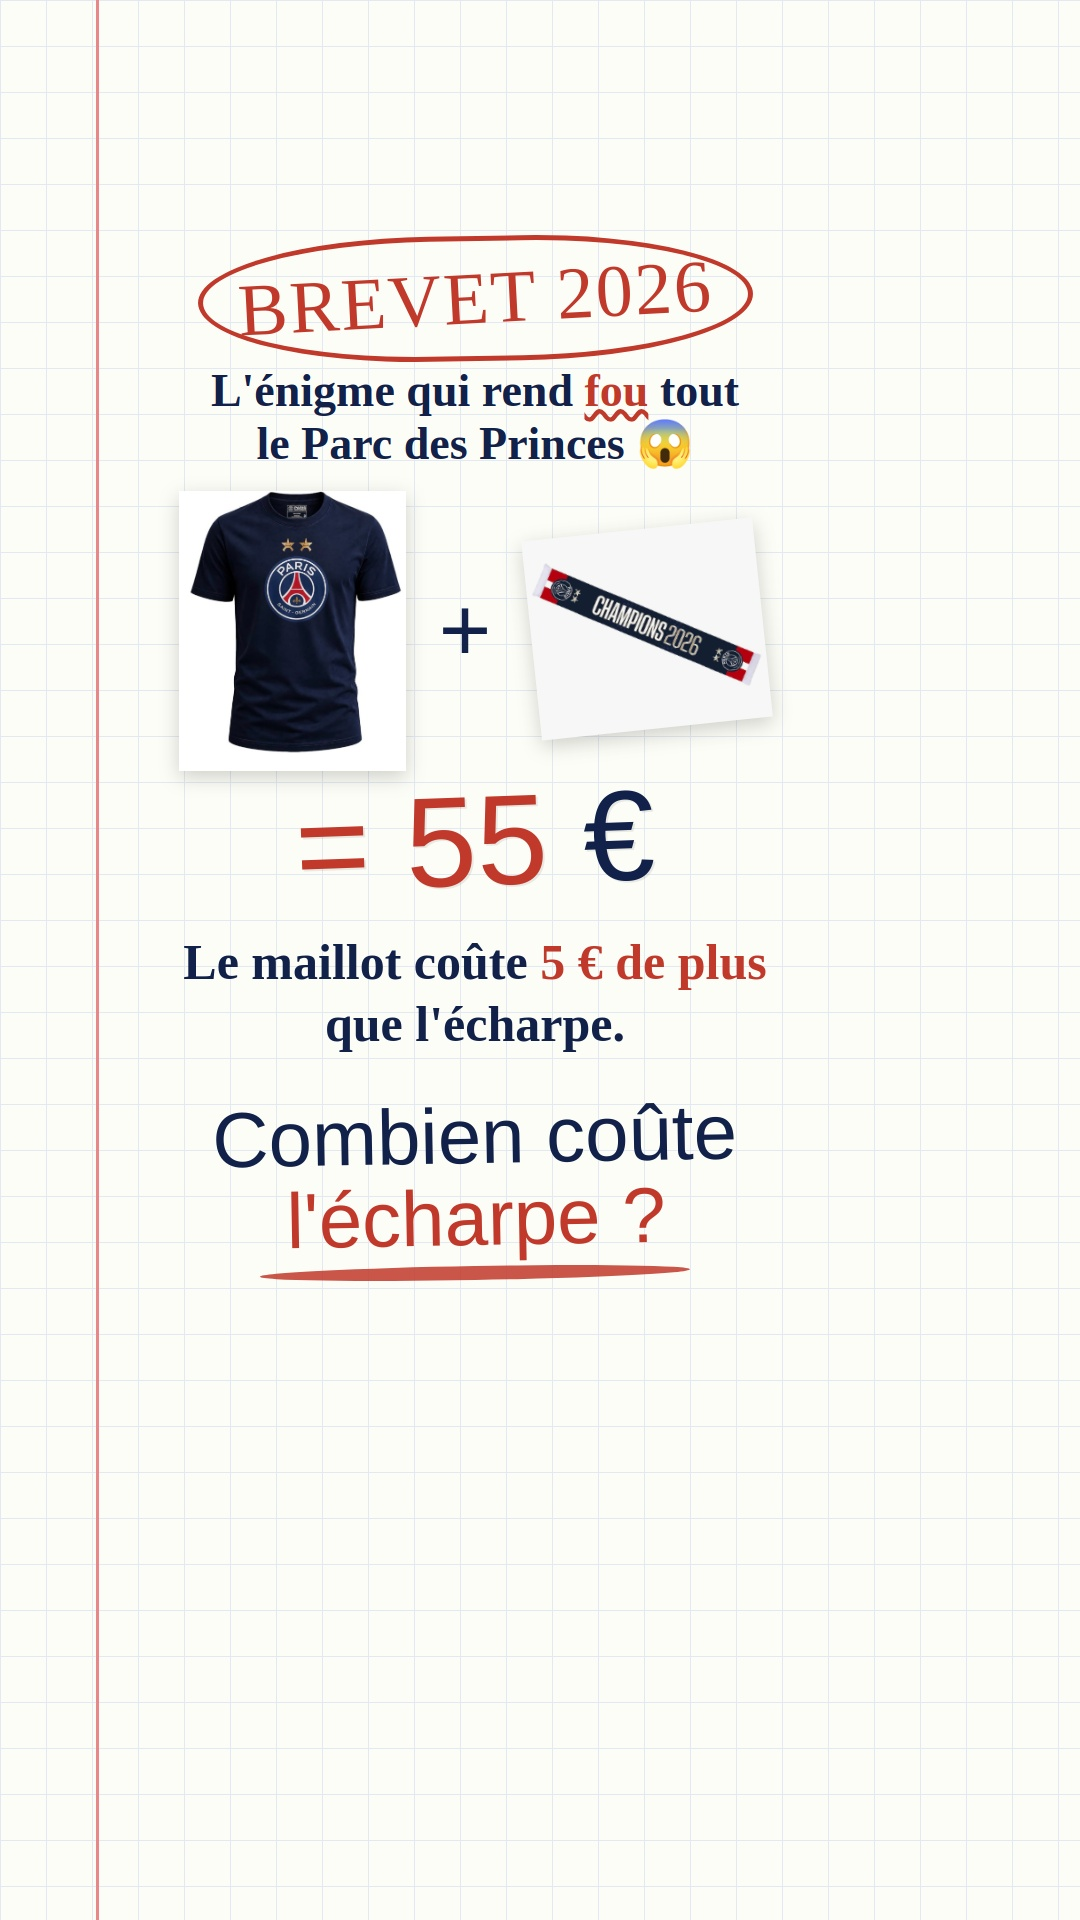
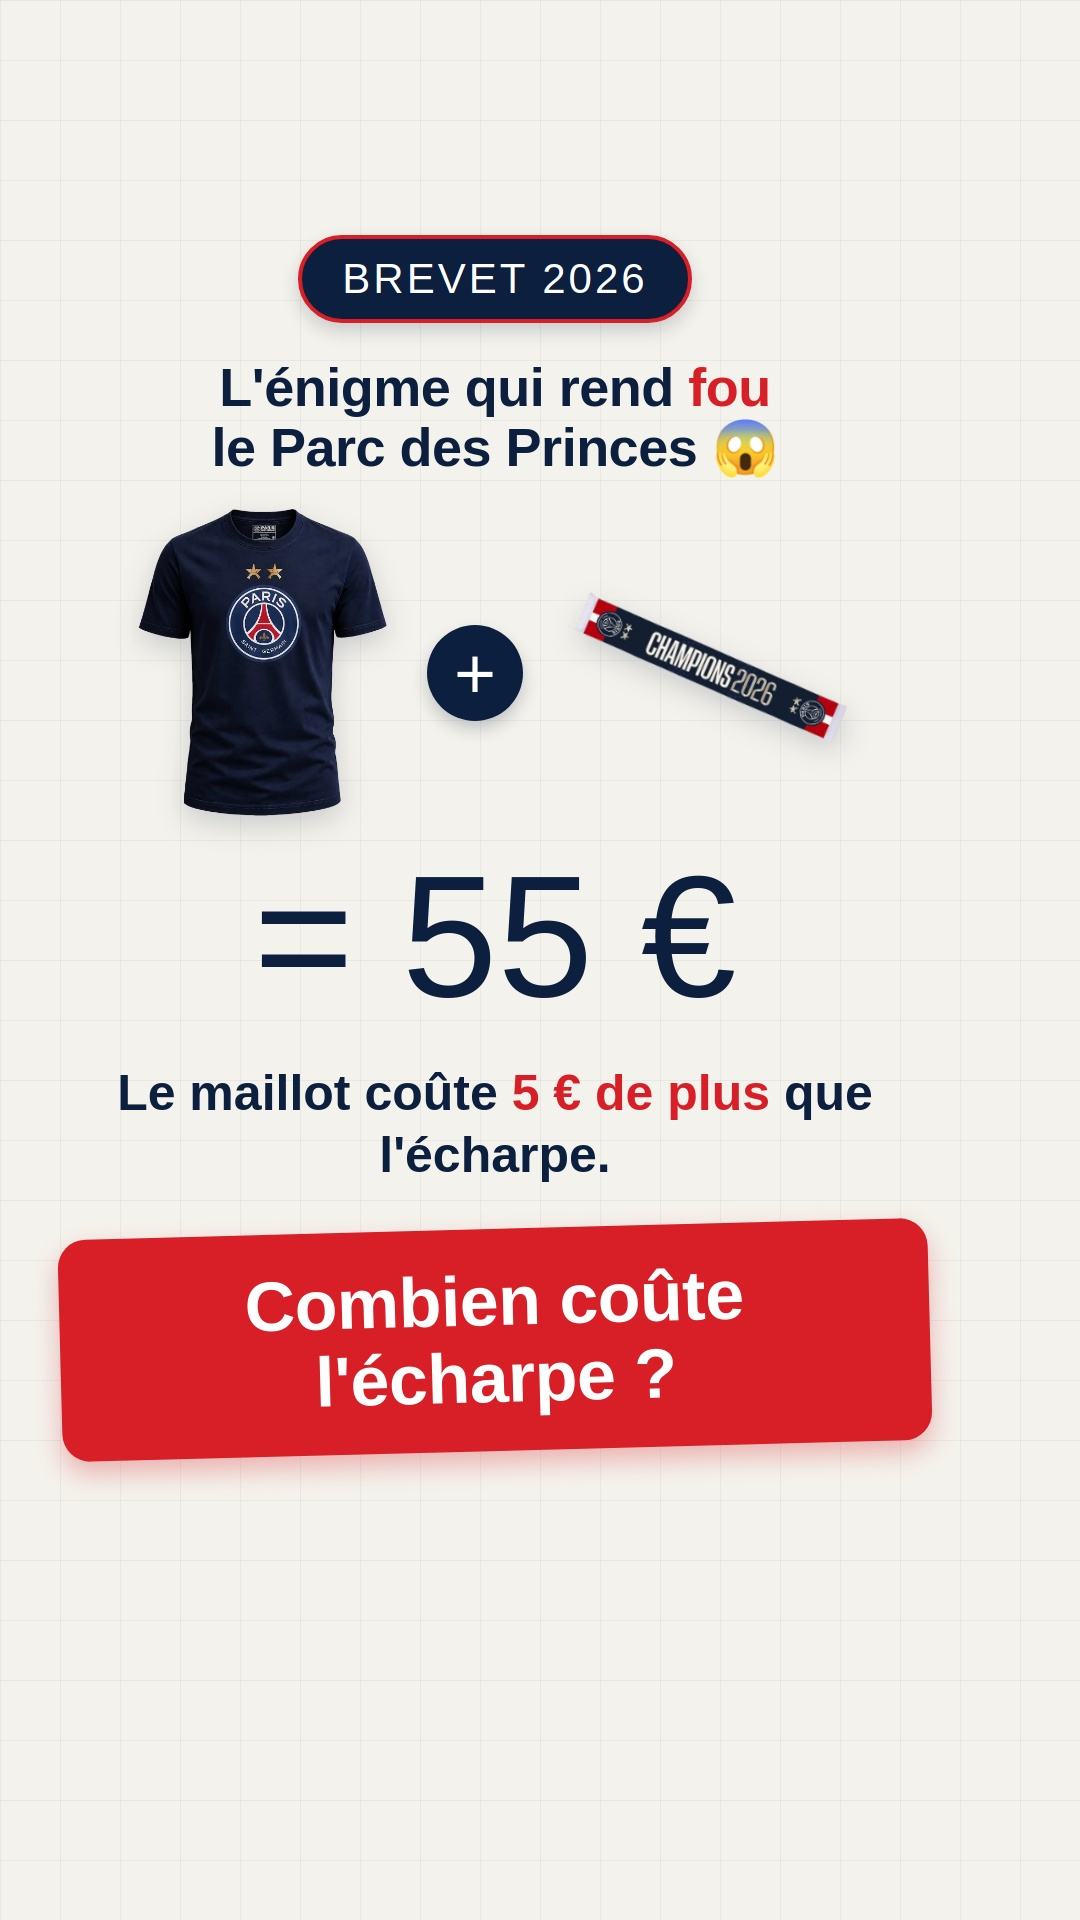
Redesign riddle: clean bg, detoured products, modern type, red closer block

Changed region(s): [[0.0306, 0.0938, 0.8861, 0.7812], [0.4889, 0.2812, 0.7944, 0.4062]]

diff --git a/enigme/enigme.html b/enigme/enigme.html
@@ -4,140 +4,123 @@
 <meta charset="utf-8">
 <link rel="preconnect" href="https://fonts.googleapis.com">
 <link rel="preconnect" href="https://fonts.gstatic.com" crossorigin>
-<link href="https://fonts.googleapis.com/css2?family=Permanent+Marker&family=Kalam:wght@400;700&family=Anton&display=swap" rel="stylesheet">
+<link href="https://fonts.googleapis.com/css2?family=Anton&family=Montserrat:wght@600;700;800;900&display=swap" rel="stylesheet">
 <style>
-  * { margin:0; padding:0; box-sizing:border-box; }
+  :root{
+    --bg:#F4F2EC;        /* blanc cassé mat */
+    --navy:#0C1F3F;      /* bleu marine */
+    --red:#D81E27;       /* rouge PSG */
+    --grid:rgba(12,31,63,.05);
+  }
+  *{ margin:0; padding:0; box-sizing:border-box; }
 
   /* Canvas 9:16 — 1080 x 1920 */
   .canvas{
     position:relative;
     width:1080px; height:1920px;
     overflow:hidden;
-    /* feuille à carreaux (cahier) */
-    background-color:#fdfdf7;
+    background-color:var(--bg);
+    /* quadrillage très atténué, sans marge */
     background-image:
-      linear-gradient(#e3e9f2 1px, transparent 1px),
-      linear-gradient(90deg, #e3e9f2 1px, transparent 1px);
-    background-size:46px 46px;
-    font-family:'Kalam', cursive;
-  }
-  /* marge rouge du cahier */
-  .canvas::before{
-    content:"";
-    position:absolute; top:0; bottom:0; left:96px;
-    width:3px; background:#e8868a;
+      linear-gradient(var(--grid) 1px, transparent 1px),
+      linear-gradient(90deg, var(--grid) 1px, transparent 1px);
+    background-size:60px 60px;
+    font-family:'Montserrat', sans-serif;
+    color:var(--navy);
   }
 
-  /* ---- TikTok SAFE ZONE ----
-     haut ~250px / bas ~520px / droite ~200px (icônes) / gauche ~70px */
+  /* ---- TikTok SAFE ZONE : haut ~230 / bas ~520 / droite ~150 ---- */
   .safe{
     position:absolute;
-    top:250px; left:70px; right:200px; bottom:520px;
-    display:flex; flex-direction:column;
-    align-items:center;
+    top:235px; left:60px; right:150px;
+    display:flex; flex-direction:column; align-items:center;
     text-align:center;
   }
 
-  /* Bandeau titre entouré au feutre */
+  /* 1. Macaron BREVET 2026 */
   .badge{
-    font-family:'Permanent Marker', cursive;
-    font-size:74px; color:#c0392b;
-    letter-spacing:2px;
-    transform:rotate(-3deg);
-    position:relative;
-    padding:6px 30px;
-    margin-bottom:18px;
-  }
-  .badge::after{
-    content:""; position:absolute; inset:-14px -10px;
-    border:5px solid #c0392b; border-radius:50%/60%;
-    transform:rotate(2deg);
+    font-family:'Anton', sans-serif;
+    font-size:42px; letter-spacing:3px;
+    color:#fff; background:var(--navy);
+    padding:16px 40px; border-radius:999px;
+    border:4px solid var(--red);
+    box-shadow:0 8px 18px rgba(12,31,63,.18);
+    margin-bottom:34px;
   }
 
+  /* 2. Accroche */
   .accroche{
-    font-family:'Kalam', cursive; font-weight:700;
-    font-size:46px; color:#11214a; line-height:1.15;
-    margin-bottom:6px;
+    font-weight:900; font-size:54px; line-height:1.12;
+    letter-spacing:-.5px; max-width:820px;
+    margin-bottom:30px;
   }
-  .accroche .fou{ color:#c0392b; text-decoration:underline wavy #c0392b; }
+  .accroche .red{ color:var(--red); }
 
-  /* Ligne des deux produits */
-  .produits{
+  /* 3. Équation détourée */
+  .eq{
     display:flex; align-items:center; justify-content:center;
-    gap:6px; margin:14px 0 4px;
+    gap:18px; margin-bottom:6px; width:100%;
   }
-  .produits img{ width:280px; height:280px; object-fit:contain;
-    filter:drop-shadow(0 6px 10px rgba(0,0,0,.18)); }
-  .echarpe-wrap{ width:300px; }
-  .echarpe-wrap img{ width:300px; height:200px; transform:rotate(-6deg); }
-  .signe{ font-family:'Anton',sans-serif; font-size:90px; color:#11214a; }
+  .eq img{
+    filter:drop-shadow(0 10px 14px rgba(12,31,63,.18));  /* relief doux */
+  }
+  .maillot{ width:300px; height:330px; object-fit:contain; }
+  .echarpe{ width:340px; height:240px; object-fit:contain; transform:rotate(-5deg); }
+
+  /* pastille "+" en relief */
+  .plus{
+    flex:0 0 auto;
+    width:96px; height:96px; border-radius:50%;
+    background:var(--navy); color:#fff;
+    font-family:'Anton',sans-serif; font-size:72px; line-height:96px;
+    box-shadow:0 8px 16px rgba(12,31,63,.22);
+  }
 
   .total{
     font-family:'Anton', sans-serif;
-    font-size:128px; color:#c0392b; line-height:1;
-    transform:rotate(-2deg);
-    margin:2px 0 26px;
-    text-shadow:2px 2px 0 rgba(0,0,0,.08);
+    font-size:172px; line-height:1; color:var(--navy);
+    margin:6px 0 40px;
   }
-  .total span{ color:#11214a; }
 
-  /* Indice manuscrit */
+  /* 4. Indice */
   .indice{
-    font-family:'Kalam', cursive; font-weight:700;
-    font-size:50px; color:#11214a; line-height:1.25;
-    max-width:760px; margin-bottom:40px;
+    font-weight:800; font-size:50px; line-height:1.25;
+    max-width:780px; margin-bottom:42px;
   }
-  .indice b{ color:#c0392b; }
+  .indice .red{ color:var(--red); }
 
-  /* Calcul griffonné */
-  .calcul{
-    font-family:'Permanent Marker', cursive;
-    font-size:44px; color:#2c4a8f;
+  /* 5. Question — bloc rouge qui ferme le visuel */
+  .closer{
+    background:var(--red); color:#fff;
+    font-weight:900; font-size:70px; line-height:1.1;
+    letter-spacing:-.5px;
+    padding:34px 56px; border-radius:28px;
+    box-shadow:0 12px 26px rgba(216,30,39,.30);
     transform:rotate(-1.5deg);
-    margin:4px 0 26px;
-    opacity:.85;
   }
-
-  .question{
-    font-family:'Anton', sans-serif;
-    font-size:78px; color:#11214a; line-height:1.05;
-    transform:rotate(-1deg);
-  }
-  .question em{ color:#c0392b; font-style:normal; }
-
-  .underline{
-    width:430px; height:14px; margin-top:6px;
-    background:#c0392b;
-    border-radius:50%;
-    transform:rotate(-1deg);
-    opacity:.85;
-  }
-
-  /* repère visuel safe zone (désactivé au rendu) */
-  .guide{ display:none; position:absolute; top:250px; left:70px; right:200px; bottom:520px; border:2px dashed #f00; }
 </style>
 </head>
 <body>
   <div class="canvas">
     <div class="safe">
+
       <div class="badge">BREVET 2026</div>
 
-      <div class="accroche">L'énigme qui rend <span class="fou">fou</span> tout<br>le Parc des Princes 😱</div>
+      <div class="accroche">L'énigme qui rend <span class="red">fou</span><br>le Parc des Princes 😱</div>
 
-      <div class="produits">
-        <img src="maillot.jpeg" alt="maillot PSG">
-        <div class="signe">+</div>
-        <div class="echarpe-wrap"><img src="echarpe.jpeg" alt="écharpe Champions"></div>
+      <div class="eq">
+        <img class="maillot" src="maillot.png" alt="maillot PSG">
+        <div class="plus">+</div>
+        <img class="echarpe" src="echarpe.png" alt="écharpe Champions">
       </div>
 
-      <div class="total">= 55 <span>€</span></div>
+      <div class="total">= 55 €</div>
 
-      <div class="indice">Le maillot coûte <b>5 € de plus</b><br>que l'écharpe.</div>
+      <div class="indice">Le maillot coûte <span class="red">5 € de plus</span> que l'écharpe.</div>
 
-      <div class="question">Combien coûte<br><em>l'écharpe&nbsp;?</em></div>
-      <div class="underline"></div>
+      <div class="closer">Combien coûte l'écharpe&nbsp;?</div>
+
     </div>
-    <div class="guide"></div>
   </div>
 </body>
 </html>
